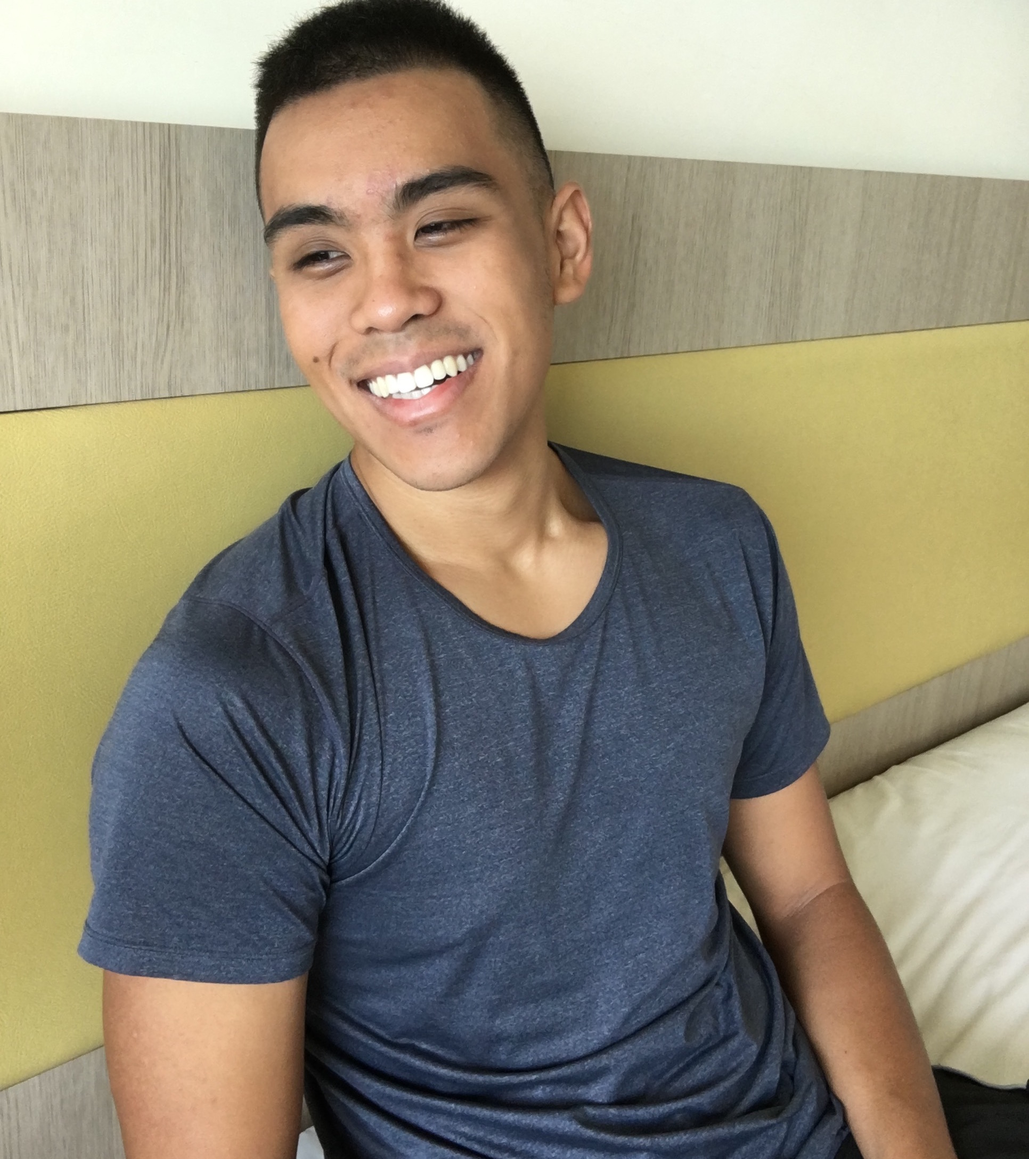
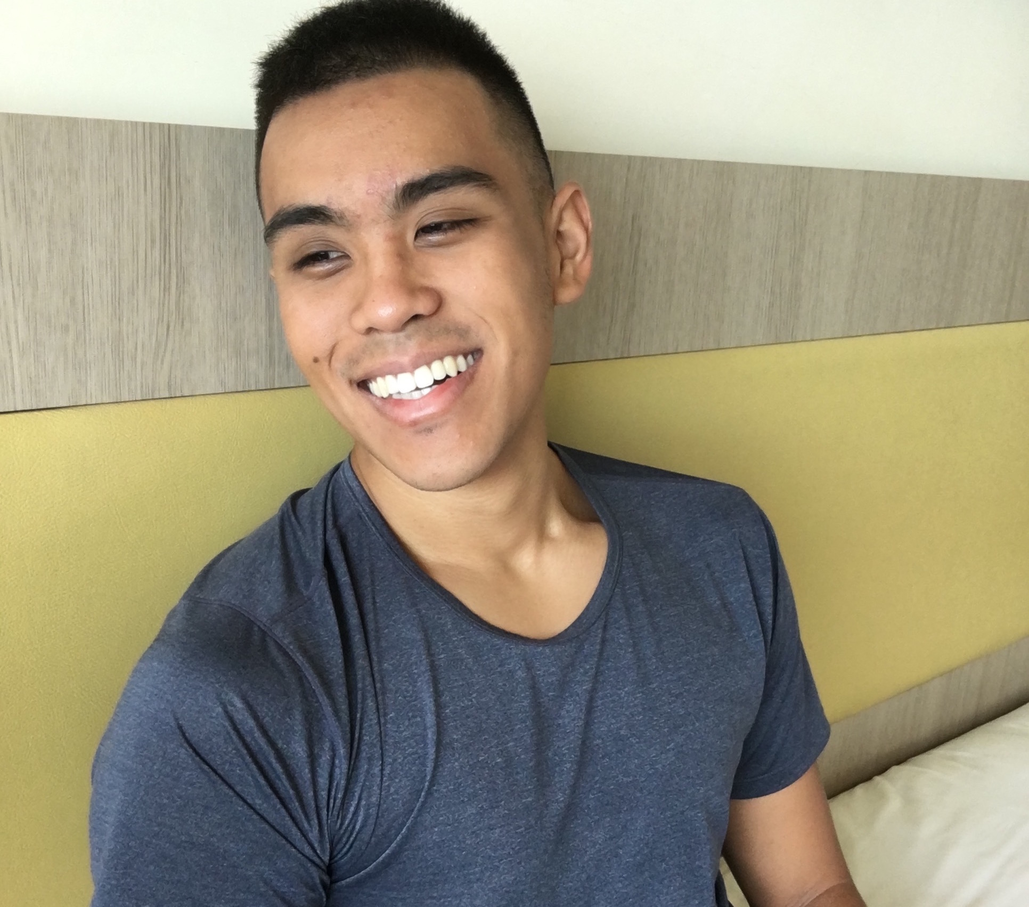
moved picture, changed about to proper copy

diff --git a/index.html b/index.html
@@ -17,9 +17,9 @@
 
 				<!-- Home -->
 					<article id="home" class="panel special">
-						<!-- <div class="image">
-							<img src="images/pic01.jpg" alt="" data-position="center center" />
-						</div> -->
+						<div class="image">
+							<img src="images/profile.jpg" alt="" data-position="center center" />
+						</div>
 						<div class="content">
 							<div class="inner">
 								<header>
@@ -54,46 +54,15 @@
 								<header>
 									<h2>Principles</h2>
 								</header>
-								<h4>1. Purpose</h4>
-								<p>What do you want a website for?</p>
-								<p>Do you just want to validate your existence or do you want people to actually <em>show up and pay for what you offer?</em></p>
-								<p>Every visit is an opportunity to convert a viewer into a customer. Capitalize on this to grow your customer base and maximize sales.</p>
-
-								<p>Every aspect of your website should be designed with purpose.</p>
-
-								<h4>2. Presence</h4>
-								<p>Your website is the foundation of your online presence. It's the first impression most people will get about your business, and you never get a second chance to make a first impression.</p>
-								<p>A website that's difficult to navigate, looks ugly, or has mediocre content will hurt your reputation.</p>
-								<p>Your values shine through your website. Strive to impress.</p>
-								<!-- <p>Startups, tech companies, and online businesses understand this best. They willingly spend millions on website optimization - things like SEO, A/B testing, copywriting, and marketing.</p>
-								<p>They spend millions because they know it will make them billions.</p> -->
-
-								<h4>3. Experience</h4>
-								<p>Navigating your site is an <em>experience</em> that determines how prospective customers will perceive you.</p>
-
-								<p>It's often the first impression, and you'll never get a second chance.</p>
-
-								<p>Your site should be easy to navigate, have the right information, and present it in a compelling way.</p>
-
-								<h4>4. Awareness</h4>
-								<p>Your viewers will consist of varying <em>awareness levels</em> regarding what you offer.</p>
-								<p>Some know who you are, what you offer, and are just waiting for the right deal.</p>
-								<p>Some know they want what you offer, but don’t know you offer it.</p>
-								<p>Some have no idea that what you offer even exists, but are the ones that need it the most.</p>
-								<p>Aim with precision and don't miss any easy targets.</p>
-
-								<h4>5. Action</h4>
-								<p>To attract and convert customers, your website must compel viewers to <em>take action.</em></p>
-								<p>The <em>right</em> action always relates to your sales funnel - subscribe to your email list, read the next article, or buy your product.</p>
 							</div>
 						</div>
 					</article>
 
 				<!-- About -->
 					<article id="about" class="panel secondary">
-						<div class="image">
+						<!-- <div class="image">
 							<img src="images/profile.jpg" alt="" data-position="center center" />
-						</div>
+						</div> -->
 						<div class="content">
 							<ul class="actions spinX">
 								<li><a href="#home" class="button small back">Back</a></li>
@@ -102,15 +71,29 @@
 								<header>
 									<h2>What I Do</h2>
 								</header>
-								<p>I am a web developer and writer that specializes in maximizing conversion rates by optimizing web design and copy.</p>
-								<p>If you haven't already hired a specialist, your website and sales funnels have holes that are leaking out money. I'm here to fix them and make you money you didn't even know was possible.</p>
-								<p>My process is rooted in the principles of Human-Computer Interaction, Behavioral Psychology, and Digital Marketing.</p>
-								<p>Hire me to:</p>
-								<ul>
-									<li>Develop or restructure your website</li>
-									<li>Write compelling, action-invoking copy</li>
-									<li>Maximize your conversion rates</li>
-								</ul>
+								<h4>I make better websites and write better copy than anyone else.</h4>
+
+								<p>Be careful though... <em>The more money you throw at me, the more your sales and subscriber numbers will explode.</em></p>
+
+								<p>I know, I know, it's dumb that I even have to warn people about this... but some people just don't like their numbers exploding!</p>
+
+								<p>In the words of my morbidly obese and clinically depressed uncle, their numbers are "fine just the way they are" and "there's nothing you can do to change them"!</p>
+
+								<p>So if you don't want your numbers exploding, you should probably hire someone else.</p>
+
+								<p>Otherwise, you should probably start throwing all of your money to me RIGHT NOW before someone else does.</p>
+
+								<p><em>Because for some reason, lots of rich people like to throw big numbers at me</em>... like I'm some kind of expensive human calculator or something.</p>
+
+								<p><em>They throw big numbers at me and ask me to multiply them.</em></p>
+
+								<p>And I feel absolutely terrible about it because they've got the wrong idea... I'm no calculator, and I'm not even that great at math... I'm just a writer and website guy!</p>
+
+								<p>I can only multiply so many numbers, and I only know one thing about multiplication... <strong>the bigger the numbers, the bigger the result.</strong></p>
+
+								<p>But I like big numbers too, so if you share in my enjoyment of big numbers, feel free to throw some at me!</p>
+
+								<p>Results guaranteed or your money back.</p>
 								<a href="#contact" class="button">Hire me</a>
 							</div>
 						</div>
